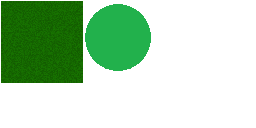
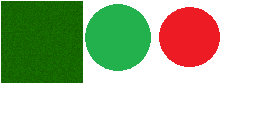
GameMap

Changed region(s): [[0.5938, 0.0312, 0.875, 0.5312]]

diff --git a/core/src/com/imbabot/snake_game/Snake.java b/core/src/com/imbabot/snake_game/Snake.java
@@ -12,6 +12,7 @@ import com.badlogic.gdx.math.Vector2;
 
 public class Snake {
 
+
     private Vector2 position;
     private TextureRegion texture;
     private float speed;
@@ -25,8 +26,11 @@ public class Snake {
     private StringBuilder stringBuilder;
     private int score;
 
+    private SnakeGame game;
 
-    public Snake(TextureAtlas atlas) {
+
+    public Snake(TextureAtlas atlas, SnakeGame game) {
+        this.game = game;
         this.position = new Vector2(100, 100);
         this.speed = 300.0f;
         this.isPressedD = false;
@@ -37,6 +41,7 @@ public class Snake {
         this.texture = atlas.findRegion("Snake");
         this.stringBuilder = new StringBuilder();
         this.score = 0;
+
     }
 
     public void update(float dt){
@@ -44,8 +49,13 @@ public class Snake {
         checkBounds();
     }
 
+    public Vector2 getPosition() {
+        return position;
+    }
+
 
     public void movement(float dt){
+        eatApple();
         if (Gdx.input.isKeyPressed(Input.Keys.D)){
             if (isPressedA == false){
                 isPressedD = true;
@@ -101,7 +111,17 @@ public class Snake {
         if (position.y < 0 + offset){
             position.y = 0 + offset;
         }
+    }
 
+    private void addScore(int amount){
+        score += amount;
+    }
+
+    private void eatApple(){
+        if (position.dst(game.getApple().getPosition()) < 20){
+            game.getApple().setActive(false);
+            addScore(10);
+        }
     }
 
     public void renderGUI(SpriteBatch batch, BitmapFont font){
@@ -112,5 +132,4 @@ public class Snake {
     public void render(SpriteBatch batch){
         batch.draw(texture, position.x - offset, position.y - offset);
     }
-
 }

diff --git a/core/src/com/imbabot/snake_game/Apple.java b/core/src/com/imbabot/snake_game/Apple.java
@@ -1,0 +1,51 @@
+package com.imbabot.snake_game;
+
+import com.badlogic.gdx.Gdx;
+import com.badlogic.gdx.Input;
+import com.badlogic.gdx.graphics.Texture;
+import com.badlogic.gdx.graphics.g2d.SpriteBatch;
+import com.badlogic.gdx.graphics.g2d.TextureAtlas;
+import com.badlogic.gdx.graphics.g2d.TextureRegion;
+import com.badlogic.gdx.graphics.g3d.particles.influencers.ParticleControllerInfluencer;
+import com.badlogic.gdx.math.MathUtils;
+import com.badlogic.gdx.math.Vector2;
+
+
+
+public class Apple {
+
+    private Vector2 position;
+    private TextureRegion textureApple;
+
+    private boolean isActive;
+
+
+    public Vector2 getPosition() {
+        return position;
+    }
+
+    public void setActive(boolean active) {
+        isActive = active;
+    }
+
+    public Apple(TextureAtlas atlas){
+        this.textureApple = atlas.findRegion("Apple");
+        this.isActive = false;
+        this.position = new Vector2(0, 0);
+        this.position.x = MathUtils.random(0, 800);
+        this.position.y = MathUtils.random(0, 800);
+    }
+
+    public void render(SpriteBatch batch){
+        if (isActive) {
+            batch.draw(textureApple, position.x, position.y);
+        }else {
+            position.x = MathUtils.random(800);
+            position.y = MathUtils.random(800);
+            isActive = true;
+        }
+    }
+
+    public void update(float dt){
+    }
+}

diff --git a/core/src/com/imbabot/snake_game/SnakeGame.java b/core/src/com/imbabot/snake_game/SnakeGame.java
@@ -14,15 +14,17 @@ public class SnakeGame extends ApplicationAdapter {
 	private Snake snake;
 	private TextureAtlas atlas;
 	private BitmapFont bitmapFont;
-	private TextureRegion textureGrass;
+	private GameMap gameMap;
+	private Apple apple;
 
 	@Override
 	public void create () {
 		this.atlas = new TextureAtlas("game.pack");
 		this.batch = new SpriteBatch();
-		this.snake = new Snake(atlas);
-		this.textureGrass = atlas.findRegion("grass");
+		this.snake = new Snake(atlas, this);
 		this.bitmapFont = new BitmapFont(Gdx.files.internal("font32.fnt"));
+		this.apple = new Apple(atlas);
+		this.gameMap = new GameMap(atlas);
 	}
 
 	@Override
@@ -31,24 +33,27 @@ public class SnakeGame extends ApplicationAdapter {
 		update(dt);
 		ScreenUtils.clear(1, 1, 1, 0);
 		batch.begin();
-		for (int i = 0; i < 10; i++) {
-			for (int j = 0; j < 10 ; j++) {
-				batch.draw(textureGrass, i * 80, j * 80);
-			}
-		}
+		gameMap.render(batch);
+		apple.render(batch);
 		snake.render(batch);
 		snake.renderGUI(batch, bitmapFont);
 		batch.end();
 	}
 
+	public Apple getApple() {
+		return apple;
+	}
+
+
 	public void update(float dt){
+		gameMap.update(dt);
 		snake.update(dt);
+		apple.update(dt);
 	}
 
 	@Override
 	public void dispose () {
 		batch.dispose();
-
-
+		atlas.dispose();
 	}
 }

diff --git a/core/src/com/imbabot/snake_game/GameMap.java b/core/src/com/imbabot/snake_game/GameMap.java
@@ -1,0 +1,29 @@
+package com.imbabot.snake_game;
+
+import com.badlogic.gdx.graphics.g2d.SpriteBatch;
+import com.badlogic.gdx.graphics.g2d.TextureAtlas;
+import com.badlogic.gdx.graphics.g2d.TextureRegion;
+
+public class GameMap {
+
+    public static final int CELLS_X = 10;
+    public static final int CELLS_Y = 10;
+
+    private TextureRegion grassTexture;
+
+    public GameMap(TextureAtlas atlas){
+        this.grassTexture = atlas.findRegion("grass");
+    }
+
+    public void render(SpriteBatch batch){
+        for (int i = 0; i < CELLS_X; i++) {
+            for (int j = 0; j < CELLS_Y; j++) {
+                batch.draw(grassTexture, i * grassTexture.getRegionWidth(), j * grassTexture.getRegionHeight());
+            }
+        }
+    }
+
+    public void update(float dt){
+
+    }
+}
